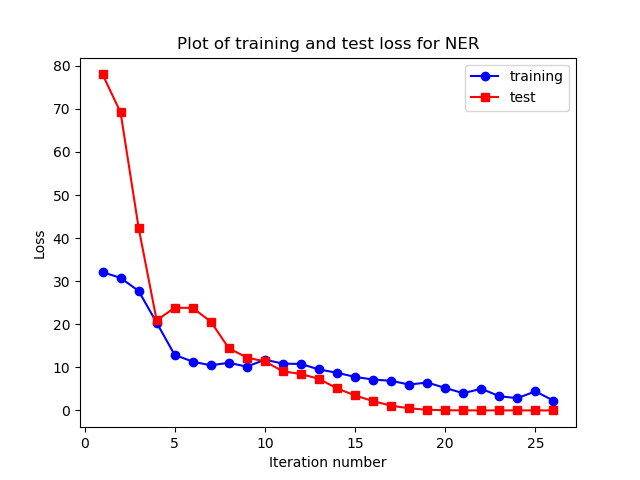
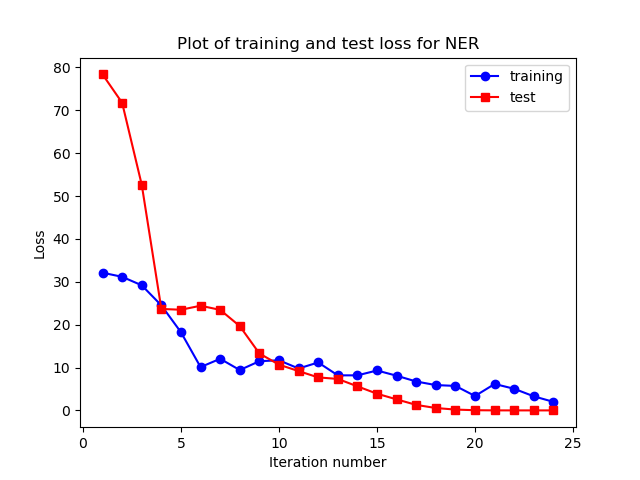
removing redundant code

diff --git a/named-entity-recognizer/src/ner_utils/train_evaluate.py b/named-entity-recognizer/src/ner_utils/train_evaluate.py
@@ -89,111 +89,9 @@ class CustomizedNer:
         self.dict_iter_losses = None
         self.dict_performance = None
 
-    def train(self, list_train_data):
-
-        print("Tagged text")
-        print(list_train_data)
-        print("==========================================")
-
-        """ Load the model, set up the pipeline and train the NER"""
-        if self.model is not None:
-            nlp = spacy.load(self.model)
-            print("Loaded model '%s'" % self.model)
-        else:
-            # create blank language class
-            nlp = spacy.blank("en")
-            print("Created blank 'en' model")
-
-        # create the built-in pipeline components and add them to the pipeline
-        # nlp.create_pipe works for built-ins that are registered with spacy
-        # add labels
-        if "ner" not in nlp.pipe_names:
-            ner = nlp.create_pipe("ner")
-            nlp.add_pipe(ner, last=True)
-        # otherwise, get it so we can add labels
-        else:
-            ner = nlp.get_pipe("ner")
-
-        for _, annotations in list_train_data:
-            for ent in annotations.get("entities"):
-                ner.add_label(ent[2])
-
-        # get names of other pipes to disable them during training
-        pipe_exceptions = ["ner", "trf_wordpiecer", "trf_tok2vec"]
-        other_pipes = [pipe for pipe in nlp.pipe_names if pipe not in pipe_exceptions]
-        # only train NER
-        with nlp.disable_pipes(*other_pipes) and warnings.catch_warnings():
-            # show warnings for misaligned entity spans once
-            warnings.filterwarnings("once", category=UserWarning, module='spacy')
-
-            # reset and initialize the weights randomly - but only if we are trinaing
-            # a new model
-            if self.model is None:
-                nlp.begin_training(learn_rate=self.learning_rate)
-
-            list_iters = []
-            list_losses = []
-
-            for itn in range(self.number_iterations):
-                random.shuffle(list_train_data)
-                losses = {}
-                # batch up the examples using spacy's minibatch
-                batches = minibatch(list_train_data, size=compounding(4.0, 32.0, 1.001))
-                for batch in batches:
-                    texts, annotations = zip(*batch)
-                    nlp.update(
-                        texts,  # batch of text
-                        annotations,  # batch of annotations
-                        drop=self.drop_out,  # dropout - make it harder to memorise data
-                        losses=losses,
-                    )
-                list_iters.append(itn + 1)
-                list_losses.append(losses['ner'])
-                print("Losses train", losses)
-
-            # display predictions on training data
-            print('Showing output in training data...')
-            for text, _ in list_train_data:
-                doc = nlp(text)
-                matcher = Matcher(nlp.vocab)
-
-                print("Entities", [(ent.text, matcher.vocab.strings[ent.label]) for ent in doc.ents])
-                print("Tokens", [(t.text, matcher.vocab.strings[t.ent_type], t.ent_iob) for t in doc])
-            print("=====================================================================")
-
-            # save model to directory
-            if self.output_dir is not None:
-                output_dir = Path(self.output_dir)
-                if not output_dir.exists():
-                    output_dir.mkdir()
-                nlp.to_disk(output_dir)
-                print("Saved model to ", output_dir)
-
-                # test the saved model
-                print("Loading model from ", output_dir)
-                nlp2 = spacy.load(output_dir)
-                for text, _ in list_train_data:
-                    doc = nlp2(text)
-
-                    matcher = Matcher(nlp2.vocab)
-
-                    # print("Entities", [(ent.text, ent.label) for ent in doc.ents])
-                    # print("Tokens", [(t.text, t.ent_type, t.ent_iob) for t in doc])
-                    print("Entities", [(ent.text, matcher.vocab.strings[ent.label]) for ent in doc.ents])
-                    print("Tokens", [(t.text, matcher.vocab.strings[t.ent_type], t.ent_iob) for t in doc])
-
-        # plot loss vs iteration
-        plt.plot(list_iters, list_losses)
-        plt.title("Plot of training loss for NER")
-        plt.xlabel("Iteration number")
-        plt.ylabel("Loss")
-        plt.savefig('../plots/loss_vs_iteration.png')
-        self.dict_iter_losses = dict(zip(list_iters, list_losses))
-        return self.dict_iter_losses
-
     def train_early_stop(self, list_train_data: list, list_test_data: list,
                          enhancement_iteration_factor: float = 0.01,
-                         use_mini_batch: bool = True, verbose: bool = False):
+                         use_mini_batch: bool = True, early_stop: bool = True, verbose: bool = False):
 
         """ Load the model, set up the pipeline and train the NER"""
         if self.model is not None:
@@ -284,9 +182,12 @@ class CustomizedNer:
                 print("Losses train ", losses['ner'], " F1 train ", metrics_training['F1'])
                 print("Losses test", losses_test['ner'], " F1 test ", metrics_test['F1'])
                 print("===================================================")
-                if (losses_test['ner'] < losses['ner']) & (losses['ner'] <= enhancement_iteration_factor*initial_loss):
-                    print('Stopping at iteration number ', itn+1)
-                    break
+
+                if early_stop:
+                    if (losses_test['ner'] < losses['ner']) & (
+                            losses['ner'] <= enhancement_iteration_factor * initial_loss):
+                        print('Stopping at iteration number ', itn + 1)
+                        break
 
             # display predictions on training data
             if verbose:

diff --git a/named-entity-recognizer/src/train_ner_from_scratch.py b/named-entity-recognizer/src/train_ner_from_scratch.py
@@ -12,8 +12,7 @@ if __name__ == '__main__':
     # instantiate customized NER
     num_iters = 50
     ner_model = CustomizedNer(number_iterations=num_iters)
-    # train it
-    #ner_model.train(list_training_data)
+    # train it; early stop is set by default
     ner_model.train_early_stop(list_train_data=list_training_data,
                                list_test_data=list_test_data,
                                enhancement_iteration_factor=0.085,
